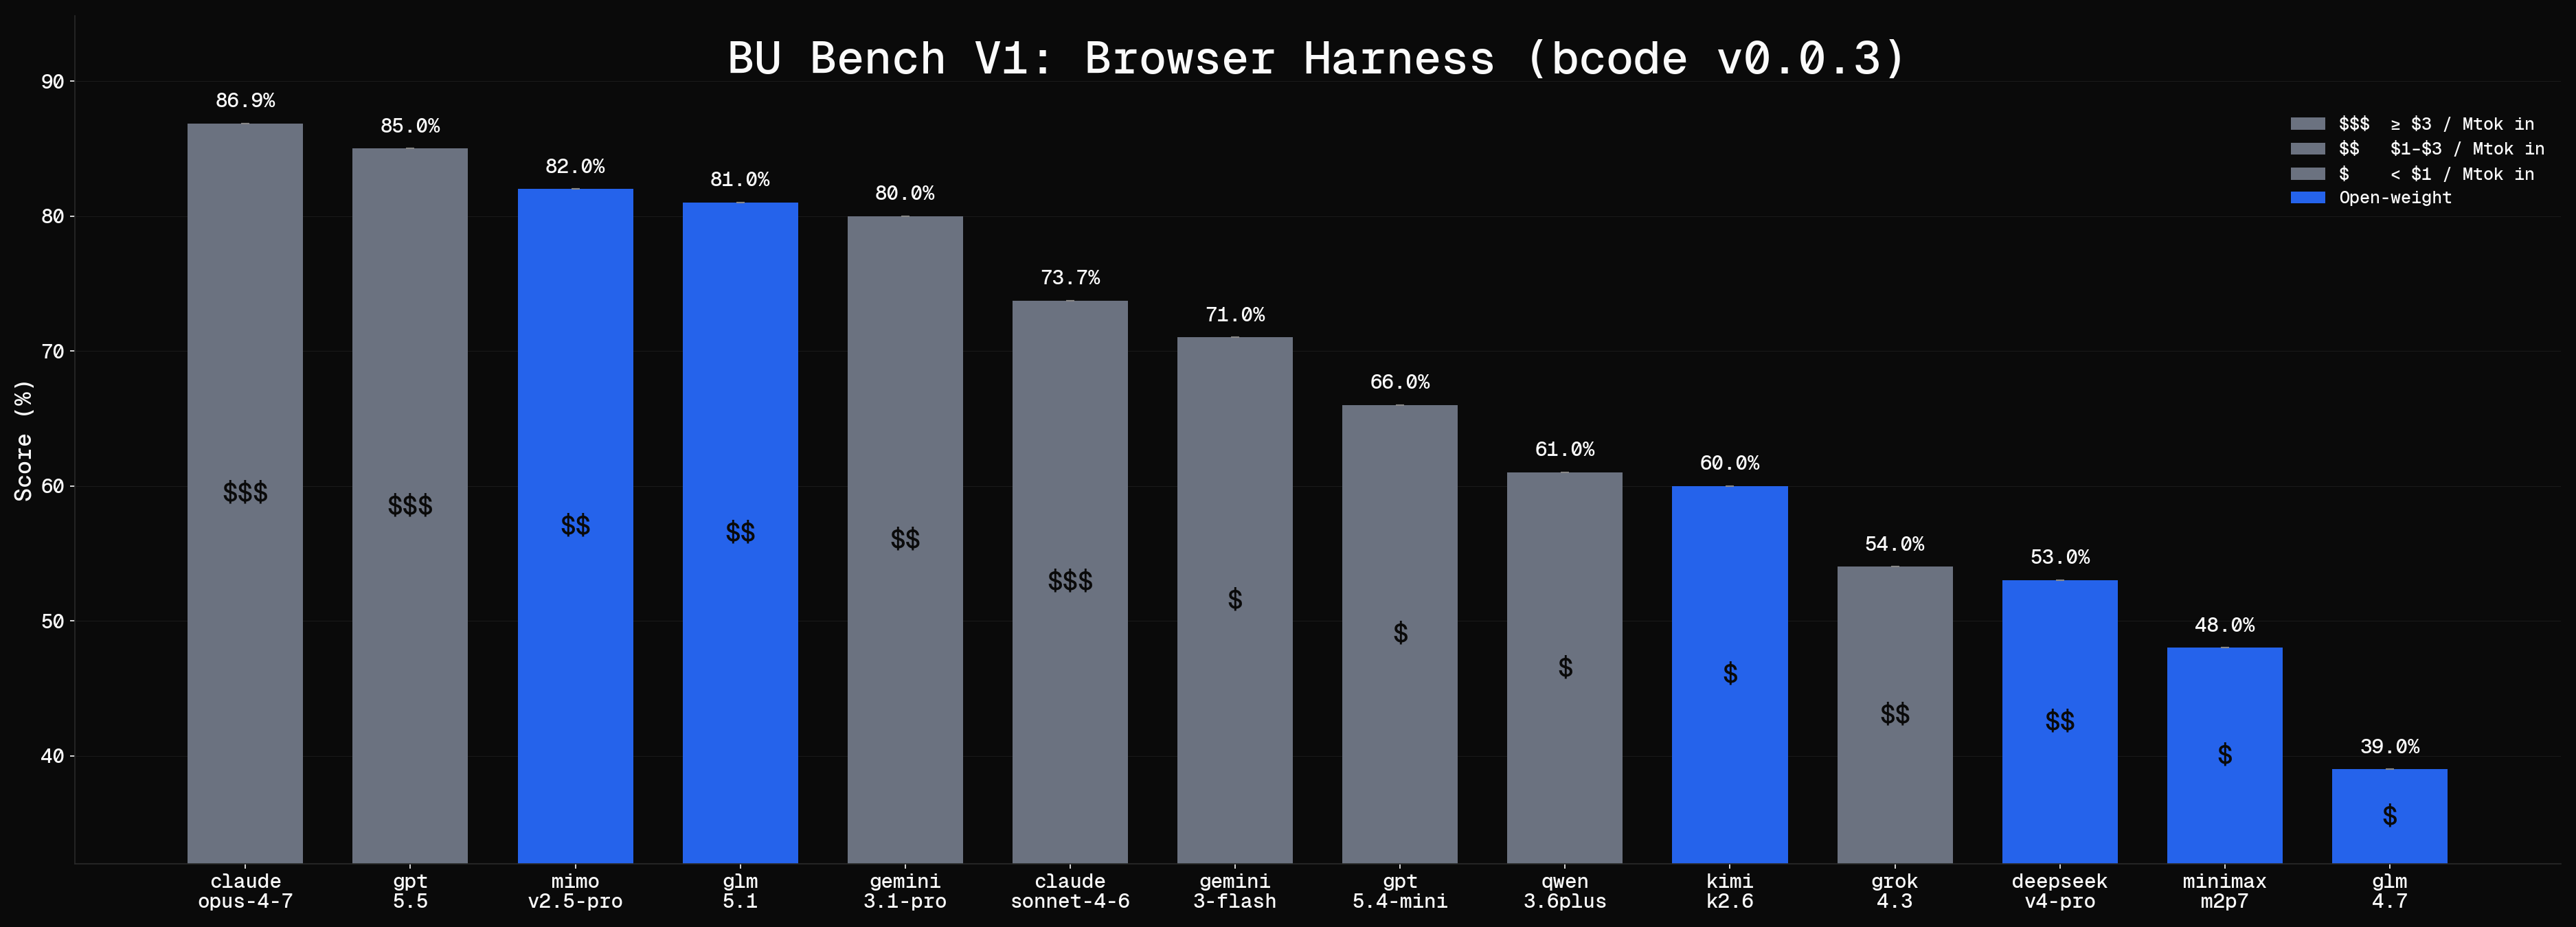
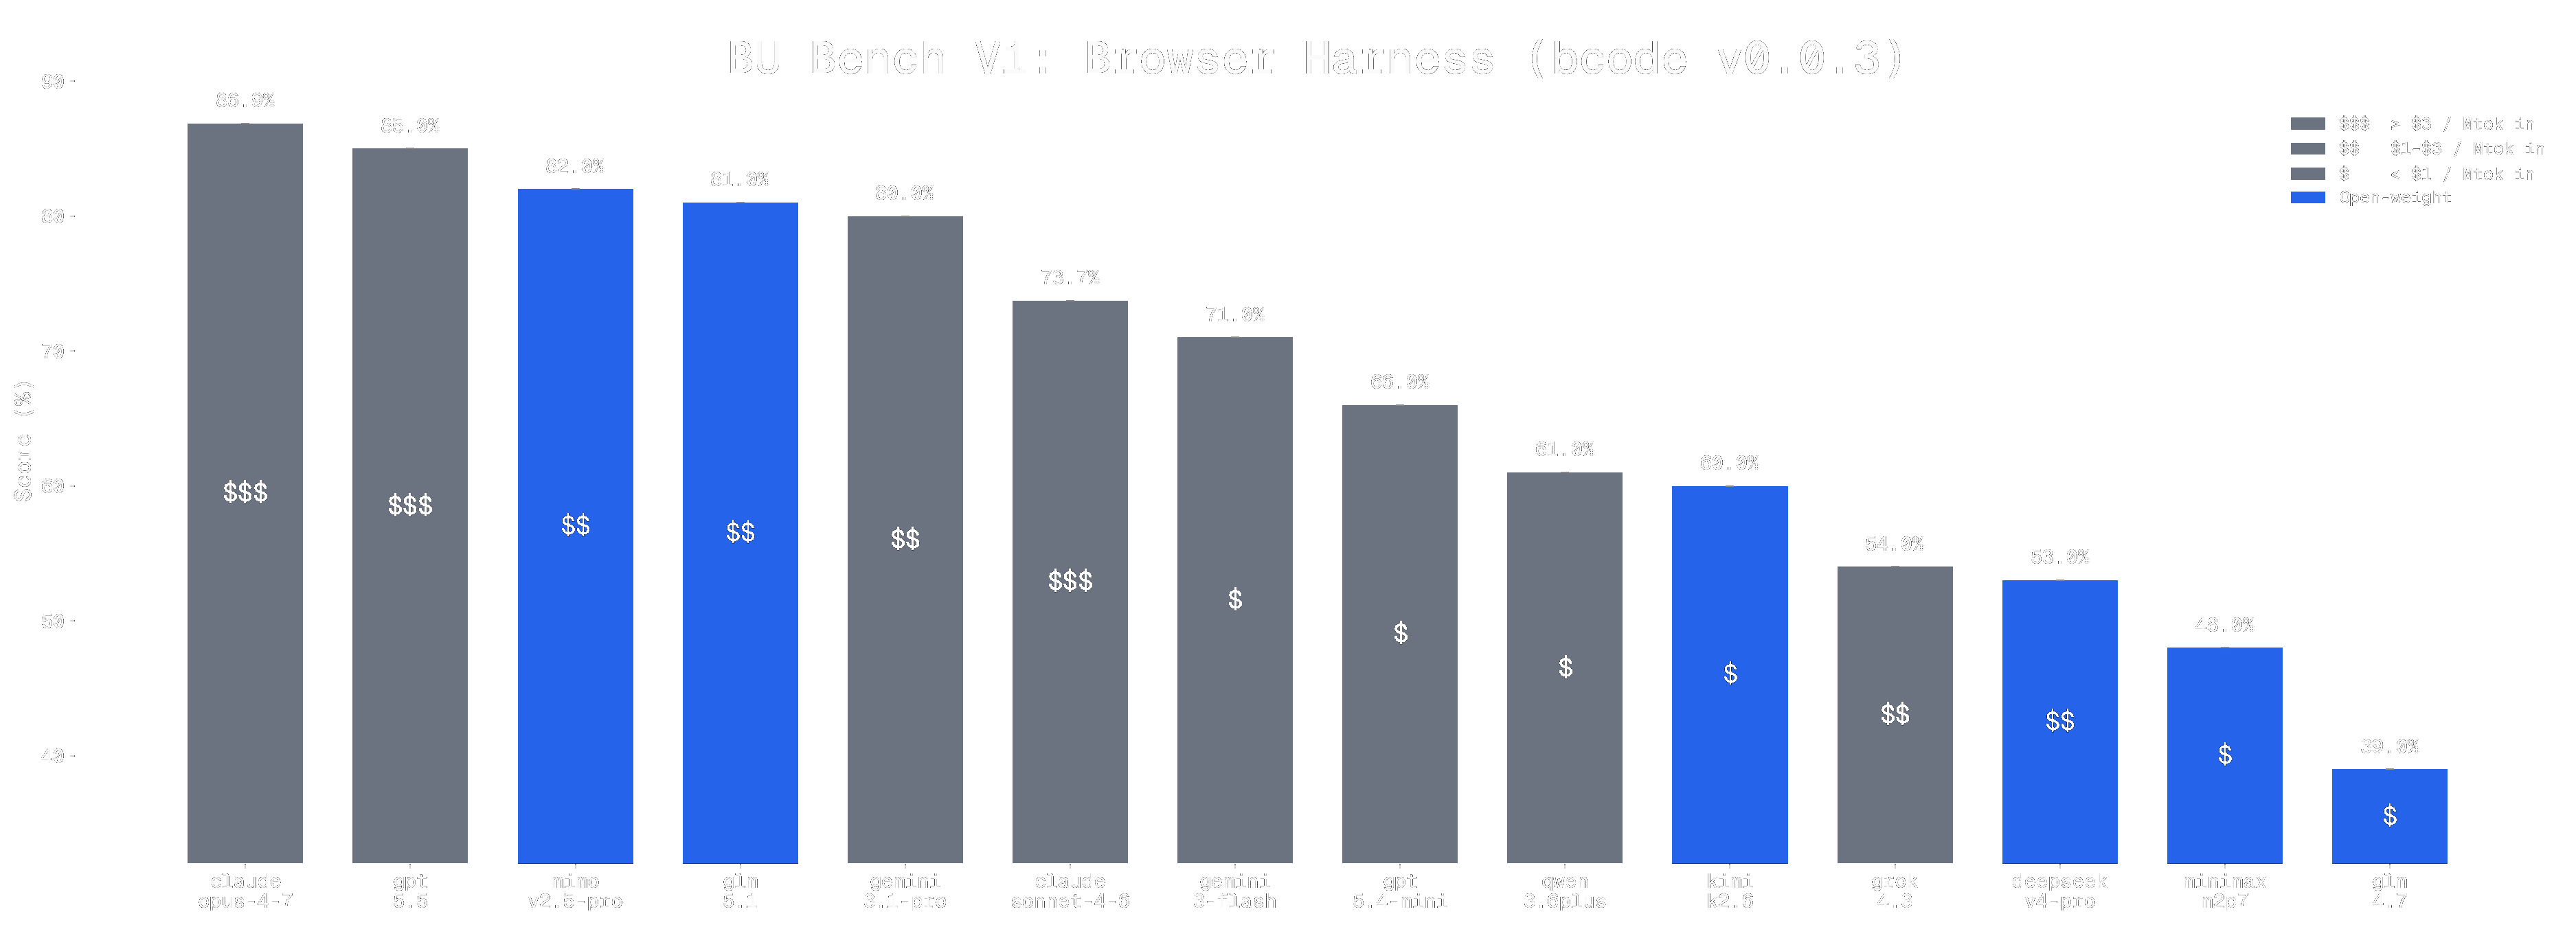
Refine README copy and plots

diff --git a/README.md b/README.md
@@ -1,35 +1,16 @@
-<img src="static/browsercode_ascii_banner.svg" alt="Animated BrowserCode ASCII banner" width="100%">
+<img src="static/browsercode_ascii_banner.svg" alt="browsercode" width="100%">
 
-<div align="center">
-<h2>The browser-native agent framework.</h2>
-</div>
-
-<div align="center">
-<a href="#demos"><img src="https://media.browser-use.tools/badges/demos" alt="Demos"></a>
-<img width="16" height="1" alt="">
-<a href="https://docs.browser-use.com"><img src="https://media.browser-use.tools/badges/docs" alt="Docs"></a>
-<img width="16" height="1" alt="">
-<a href="https://browser-use.com/posts"><img src="https://media.browser-use.tools/badges/blog" alt="Blog"></a>
-<img width="280" height="1" alt="">
-<a href="https://github.com/browser-use/browser-use"><img src="https://media.browser-use.tools/badges/github" alt="Github Stars"></a>
-<img width="4" height="1" alt="">
-<a href="https://x.com/intent/user?screen_name=browser_use"><img src="https://media.browser-use.tools/badges/twitter" alt="Twitter"></a>
-<img width="4" height="1" alt="">
-<a href="https://link.browser-use.com/discord"><img src="https://media.browser-use.tools/badges/discord" alt="Discord"></a>
-</div>
+# The browser-native agent.
 
 <br/>
-
-# BrowserCode
 
 A streamlined coding agent that drives real browsers through unconstrained CDP.
 
 The unbounded power of the browser working seamlessly with your code. The agent adapts to every site at runtime and writes scripts to reuse later.
 
-<span id="demos"></span>
 <!-- DEMO VIDEO HERE -->
 
-## One-Line Install Command
+## One-Line Install
 
 Run this in a terminal that supports bash:
 
@@ -53,17 +34,15 @@ bcode run "On Google flights return all flight details from New York to SF tomor
 
 ### Connect an LLM
 
-BrowserCode supports any model you can reach with an API key, plus every provider OpenCode supports.
-
-[OpenCode provider docs](https://opencode.ai/docs/providers)
-
-Use `/connect` in the TUI, or set provider API keys in your environment.
-
 <picture>
   <source media="(prefers-color-scheme: light)" srcset="static/browser_harness_by_model_light.png">
   <source media="(prefers-color-scheme: dark)" srcset="static/browser_harness_by_model_dark.png">
   <img alt="BU Bench V1 Browser Harness bcode v0.0.3 accuracy by model, led by claude-opus-4-7, gpt-5.5, mimo-v2.5-pro, and glm-5.1" src="static/browser_harness_by_model_light.png" width="100%">
 </picture>
+
+BrowserCode supports any model you can reach with an API key, plus [every provider OpenCode supports](https://opencode.ai/docs/providers).
+
+Use `/connect` in the TUI, or set provider API keys in your environment.
 
 Recommended models from current BrowserCode evals:
 
@@ -73,22 +52,24 @@ Recommended models from current BrowserCode evals:
 
 ### Connect a Browser
 
-Let the agent connect for you. It knows how. You can prompt:
+**Let the agent connect for you.** It knows how. 
+
+You can prompt:
 
 ```text
-Connect to my current tab at https://amazon.com and look for a better deal for 64GB DDR5 RAM and return the URLs
+Connect to my current tab on amazon.com and find deals for 64GB DDR5 RAM, return URLs
 ```
 
 The agent will take control of your actual browser.
 
 ```text
-Make a new browser profile and work in the background to QA test http://localhost:3000, fix any bugs and open a PR
+Make a new browser profile and QA test http://localhost:3000, fix bugs and open a PR
 ```
 
 The agent will work locally in its own browser profile.
 
 ```text
-Open a remote browser and extract every item sold at https://mcdonalds.com in SF
+Open a remote browser and extract every item sold on mcdonalds.com in SF
 ```
 
 The agent will control a Browser Use Cloud browser and give you a link to watch it.
@@ -98,13 +79,11 @@ The agent will control a Browser Use Cloud browser and give you a link to watch 
 - Browser Use Cloud offers unlimited free browsers, limited to 3 concurrent sessions, with stealth, captcha solving, and proxies.
 - Just set `BROWSER_USE_API_KEY` in your environment. The agent can sign up completely autonomously; just ask it to. To upgrade further, go to [cloud.browser-use.com](https://cloud.browser-use.com).
 
-## Philosophy
+## Philosophy: do more with less
 
 Browser ability and code-writing ability are deeply connected.
 
-We turned browser interaction into a coding problem; the agent writes JavaScript that drives Chrome directly through CDP. Maximal power to the agent. Minimal abstractions. 
-
-#### Do more with less.
+We turned browser interaction into a coding problem; the agent writes JavaScript that drives Chrome directly through CDP. Minimal abstractions. Maximal power to the agent. 
 
 *BrowserCode outperforms every browser agent we have tested it against.*
 